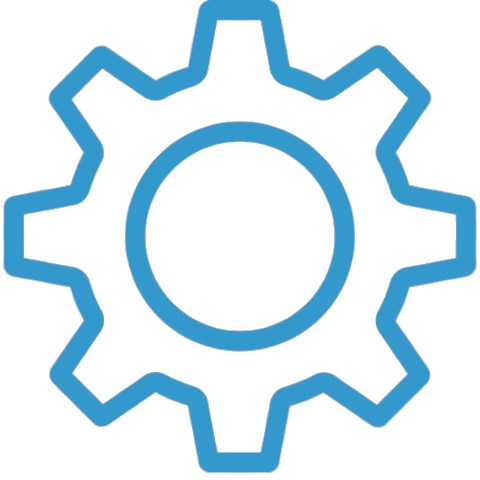
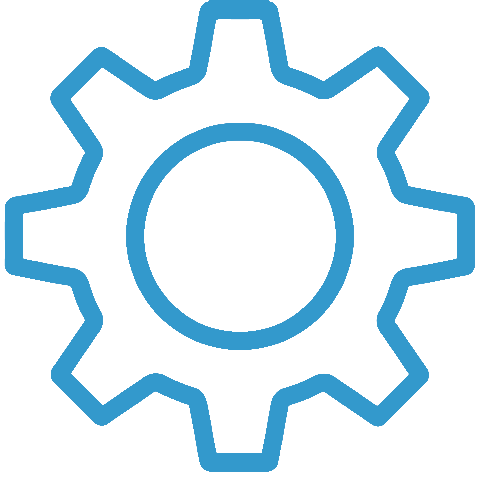
changes to styling and services

diff --git a/src/components/Services.vue b/src/components/Services.vue
@@ -3,50 +3,53 @@
     <div class="row justify-content-center mt-2">
       <div class="col-md-4">
         <div class="text-center">
-          <img class="img-fluid icon my-4" src="../assets/gearicon_blue.png" alt="gear icon">
+          <img class="img-fluid icon mt-3 pt-3 mb-4 icon-shadow" src="../assets/gearicon_blue.png" alt="gear icon">
           <br>
-          <b>Web Development</b>
+          <b class="title-shadow">Web Development</b>
         </div>
         <ul class="mt-4 mr-1">
-          <li>From small static sites to large ground-up dynamic applications, we can come up with the perfect solution to fit your needs.</li>
+          <li>From small static sites to large ground-up dynamic applications, let's come up with the perfect solution to fit your needs</li>
 
-          <li>My fully responsive and mobile ready websites can support a scalable user base, secure user authorization, account registration, password management, and custom content management systems that securely and reliable serve your needs.</li>
+          <li>My fully responsive and mobile ready websites can support a scalable user base, authentication, registration, and password management</li>
 
-          <li>From comments and messages to posts and follwers, I can help your user base stay connected through secure and validated forms.</li>
+          <li>Stay up to date with custom content management systems. Keep users connected through comments, messages, posts, and subscribes</li>
 
-          <li>Once complete, your website is your property. Host, store, and deploy your web apps wherever you like. Or, let me handle the hosting and deployment for you through a secure Amazon cloud webserver.</li>
+          <li>I can make changes or add features to your existing website using HTML, CSS, PHP, Javascript, Wordpress, databases, and more</li>
 
-          <li>I can make changes and upgrades to your existing website that uses HTML, CSS, PHP, Javascript, SQL databases, or wordpress.</li>
-
-          <li>Your web app code can be stored in a private or public online repository allowing ease of change, version control, and simplicity of collaboration on your project between multiple developers</li>
+          <li>As a team player, I would love the opportunity to work alongside your existing team. I'm a fast learner and can get up to speed quickly!</li>
         </ul>
       </div>
       <div class="col-md-4">
         <div class="text-center mb-2">
-          <img class="img-fluid icon mt-3 aws" src="../assets/aws_logo2.png" alt="aws icon">
+          <img class="img-fluid icon mt-3 aws icon-shadow" src="../assets/aws_logo2.png" alt="aws icon">
           <br>
-          <b>Hosting and AWS</b>
+          <b class="title-shadow">Hosting and AWS</b>
         </div>
         <ul class="mt-4 mr-1">
-          <li>Large applications require complex deployment, database migrations, and caching. Let me handle this for you. We use the same services as companies like Netflix, Airbnb, and Expedia.</li>
-          <li>Have confidence that your site will reliably be available for your customers. Our webservers run off Amazon's proven AWS Coud instances with %99.99 uptimes. Or use your own hosting solution like SiteGround.</li>
-          <li>Your applications are scalable so that as your needs grow, your hosting, database, and resources can grow along with you. Changes can happen within minutes, not days or weeks.</li>
-          <li>Want to be in control of everything? Let me help you set up your own hosting solution utilizing your own Amazon AWS Cloud webserver, storage volumes, databases, and DNS routing.</li>
-          <li>With your own AWS Cloud web setup, you can choose the configuration of CPU, memory, storage, and networking capacity that you need. You will get a Static IP address with this service and autoscaling capability. You don't need to be a cloud computing expert, I can administer all of this for you! </li>
+          <li>Large applications require complex deployment, database migrations, and caching. Let me handle this for you using the same services as companies like Netflix, Airbnb, and Expedia</li>
+
+          <li>Once complete, your website is your property. Host, store, and deploy your web apps wherever you like. Or, let  me handle this for you</li>
+
+          <li>Your applications are scalable so that as your needs grow, your hosting, database, and resources can grow along with you. Changes can happen within minutes, not days or weeks</li>
+
+          <li>Want to be in control of everything? Let me help you set up your own hosting solution utilizing your own Amazon AWS Cloud webserver, storage volumes, databases, and DNS routing</li>
+          
         </ul>
       </div>
       <div class="col-md-4">
         <div class="text-center">
-          <img class="img-fluid icon my-4" src="../assets/lock_blue.png" alt="lock icon">
+          <img class="img-fluid icon mt-4 mb-3 pb-3 icon-shadow" src="../assets/lock_blue.png" alt="lock icon">
           <br>
-          <b>Security and More</b>
+          <b class="title-shadow">Security and More</b>
         </div>
         <ul class="mt-4 mr-1">
-          <li>Every website hosted by an AWS cloud webserver will recieve a secure SSL certificate. I can also handle this for you on your existing website depending on the server/host you are using.</li>
-          <li>All sensitive information such as passwords are properly encrypted or hashed and stored in a secure database behind a firewall.</li>
-          <li>All web forms that connect to the database or upload files are validated with multiple layers of security to prevent malicious attacks and identity theft.</li>
-          <li>Web Servers must undergo routine upgrades and updates to maintain the highest level of security and dependability for applications. Let me handle this for you. All servers that I administer recieve routine security updates and upgrades.</li>
-          <li>Do you need a mail server setup? An existing web server configured to host a new separate domain name? DNS record changes? For anything web server related, I offer my services as system administrator and deliver you top level functionality and reliability. </li>
+          <li>Every website I deploy for you will recieve a secure SSL certificate. I can also handle this for you on your existing website depending on the server/host you are using</li>
+
+          <li>All potentially sensitive information such as passwords and user data is properly encrypted or hashed and securely stored behind a firewall.</li>
+
+          <li>Web forms or API calls that create, update, or delete from a database or upload files are validated with multiple layers of security to prevent malicious attacks theft of information</li>
+
+          <li>Do you need a mail server setup? An existing web server configured differently? DNS record changes? For anything web server related, I offer my services as system administrator</li>
         </ul>
       </div>
     </div>
@@ -71,11 +74,13 @@ export default {
 <!-- Add "scoped" attribute to limit CSS to this component only -->
 <style scoped>
 
-#services img.icon {
+
+img.icon {
 	width: 40%;
+  
 }
 
-#services img.aws {
+img.aws {
 	width: 50%;
 }
 
@@ -112,6 +117,15 @@ export default {
 	font-size: 14px;
 	margin-left: -15px;
 	margin-top: 15px;
+}
+
+.icon-shadow {
+  -webkit-filter: drop-shadow(5px 5px 5px darkgrey);
+  filter: drop-shadow(5px 5px 5px darkgrey);
+}
+
+.title-shadow {
+  text-shadow: 5px 5px 5px gainsboro;
 }
 
 </style>

diff --git a/src/components/ShowModal.vue b/src/components/ShowModal.vue
@@ -14,22 +14,29 @@
 						<h3 style="color: #3399CC;"><b>{{ project.name }}</b></h3>
 						
 						<!-- the carousel -->
-						<carousel-3d :controls-visible="true" :display="3">
+						<carousel-3d :controls-visible="true" :display="3" width="640" height="480">
 							<slide v-for="(photo, index) in photos" :key="index" :index="index">
 								<img class="img-fluid border-bottom" :src="$apiUrl + '/photos/' + project.photos[index]" alt="screenshot photo" />
 							</slide>
 						</carousel-3d>
 
 						<!-- the project info -->
-						<a :href="project.link" target="_blank">Link</a> to view website<br>
+						<div class="mt-n2">Technologies Used:</div>
+						<div class="row justify-content-center align-items-center mb-2 mt-n1 mx-3">
+							<div v-for="tech in techs" class="tech-chip mx-1 mt-2">{{ tech }}</div>
+						</div>
+
 						<span v-if="project.github == 'private'">
 							GitHub repository for this project is private<br>
 						</span>
 						<span v-else>
 							Check out the code at my <a :href="project.github" target="_blank">GitHub</a><br>
 						</span>
-						Technologies Used: <i>{{ techsJoined(project.techs) }}</i><br><hr>
-						<div class="desc"><i>{{ project.description }}</i></div>
+
+						<a :href="project.link" target="_blank">Link</a> to view website<br>
+
+						<hr>
+						<div class="desc mx-md-3"><i>{{ project.description }}</i></div>
 						
 					</div>
             	</div>
@@ -107,7 +114,7 @@ export default {
 	border-radius: 2px;
 	box-shadow: 0 2px 8px rgba(0, 0, 0, 0.33);
 	transition: all 0.3s ease;
-	overflow-y: scroll;
+	overflow-y: auto;
   
 }
 
@@ -123,7 +130,7 @@ export default {
 }
 
 .carousel-3d-container {
-	max-width: 725px;
+	max-width: 1250px;
 }
 
 .carousel-3d-slide {
@@ -153,5 +160,18 @@ export default {
   transform: scale(1.1);
 }
 
+.tech-chip {
+	border-style: solid;
+	border-width: 1px;
+	border-color: #696969;
+	border-radius: 5px; /* 15px for round */
+	padding: 2px 8px 2px 8px;
+	white-space: nowrap;
+	
+}
+
+.desc {
+	font-size: 17px;
+}
 
 </style>

diff --git a/src/components/Portfolio.vue b/src/components/Portfolio.vue
@@ -9,10 +9,17 @@
 		<div class="row justify-content-center">
 
 			<div v-for="project in projectsReverse" :key="project.id" class="col-md-6">
-				<div class="text-center mt-4" @click="showModalFunc(project.id)">
-					<img class="img-fluid" :src="$apiUrl + '/photos/' + project.photos[0]" alt="screenshot photo" />
-					<br><br>
-					<h3><b>{{ project.name }}</b></h3>
+				<div class="text-center  mt-5 mb-4 project-box" @click="showModalFunc(project.id)">
+					
+					<h3 id="project-name" class="pb-1"><b>{{ project.name }}</b></h3>
+					<div id="project-photo-box">
+						<img src="../assets/titlebar.jpeg" class="img-fluid border-top border-left border-right rounded-top">
+						<!-- images 1100 x 825 -->
+						<img id="project-photo" class="img-fluid border" :src="$apiUrl + '/photos/' + project.photos[0]" alt="screenshot photo" />
+					</div>
+					<div id="project-techs" class="blue-font mt-3"><strong>{{ techsJoined(project.techs) }}</strong></div>
+					<div class="mt-0">Click to see more!<i class="far fa-hand-pointer ml-1"></i></div>
+					
 				</div>
 			</div>
 
@@ -44,7 +51,7 @@ export default {
 	methods: {
 		techsJoined: function(techs) {
 			// join the techs array into an inline list
-			return techs.join(", ");
+			return techs.join(" \u2022 ");
 		},
 		showModalFunc(id) {
 			this.projectToShow = id;
@@ -82,7 +89,7 @@ export default {
 		margin-bottom: 15vh;
 	}
 
-	a {
+	a, h3, .blue-font {
     	color: #3399CC;
 	}
 
@@ -91,4 +98,20 @@ export default {
 	text-decoration: none;
 	}
 
+	.project-box {
+		cursor: pointer;
+	}
+
+	#project-photo-box {
+		box-shadow: 5px 5px 6px gainsboro;
+	}
+
+	#project-name {
+		text-shadow: 5px 5px 4px gainsboro;
+	}
+
+	#project-techs {
+		text-shadow: 5px 5px 4px lightgray;
+	}
+	
 </style>

diff --git a/src/components/NavHeader.vue b/src/components/NavHeader.vue
@@ -32,7 +32,13 @@
 			  </div>
 		  </nav>
 		  <div class="text-center header-text">
-			  <h1 class="header-text1 text-light mt-3">Full-stack Developer</h1>
+        <transition appear
+          
+          enter-active-class="animated tada"
+          leave-active-class="animated bounceOutRight"
+        >
+			  <h1 class="header-text1 text-light mt-3 animate_animated animate_bounce">Full-Stack Developer</h1>
+        </transition>
 			  <h6 class="header-text2 text-light"><i>A mission for quality work and a passion for the abstract concepts behind the text</i></h6>
 		  </div>
 	  </div>

diff --git a/src/views/Edit.vue b/src/views/Edit.vue
@@ -4,7 +4,7 @@
 			<div class="row justify-content-center">
 				<div class="col-md-8 my-5">
 					<div class="card">
-						<h5 class="card-header text-center">Add a New Project</h5>
+						<h5 class="card-header text-center">Edit Project</h5>
 						<div class="card-body">
 							<label for="name" class="mt-3">Project Name:</label>
 							<input type="text" class="form-control" id="name" aria-describedby="name" :value="project.name">

diff --git a/src/components/AboutMe.vue b/src/components/AboutMe.vue
@@ -5,7 +5,7 @@
 			<h1 class="display-4 mb-5" style="color: #3399CC;"><i><u>About me</u></i></h1>
 			<br>
 			<div class="text-center">
-				<img src="../assets/kyle.jpg" alt="kyle_photo" style="width: 25%;" class="rounded border border-dark">
+				<img src="../assets/kyle.jpg" alt="kyle_photo" style="width: 200px;" class="rounded border border-dark">
 			</div>
 			<div class="text-left">
 				<br>

diff --git a/public/index.html b/public/index.html
@@ -11,6 +11,12 @@
 
     <!-- font awesome -->
     <script src="https://kit.fontawesome.com/35eb0857b3.js" crossorigin="anonymous"></script>
+
+    <!-- annimate cdn REMOVE! -->
+    <link
+    rel="stylesheet"
+    href="https://cdnjs.cloudflare.com/ajax/libs/animate.css/4.1.1/animate.min.css"
+  />
     
     <title>Kyleweb.dev</title>
   </head>
